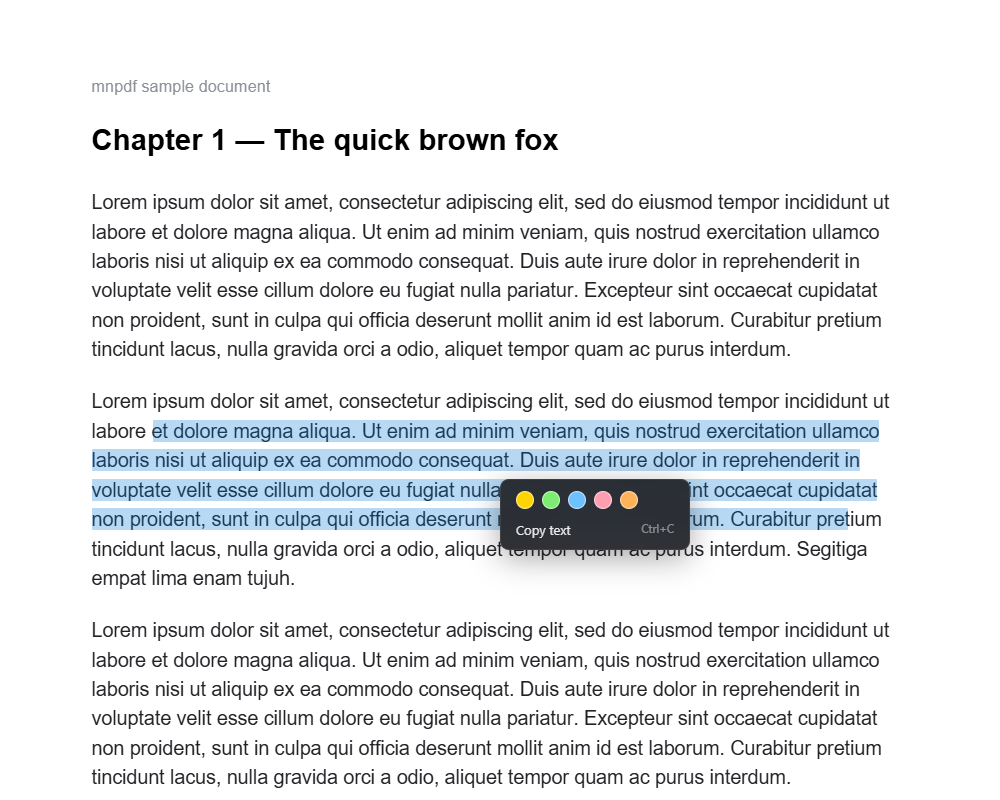
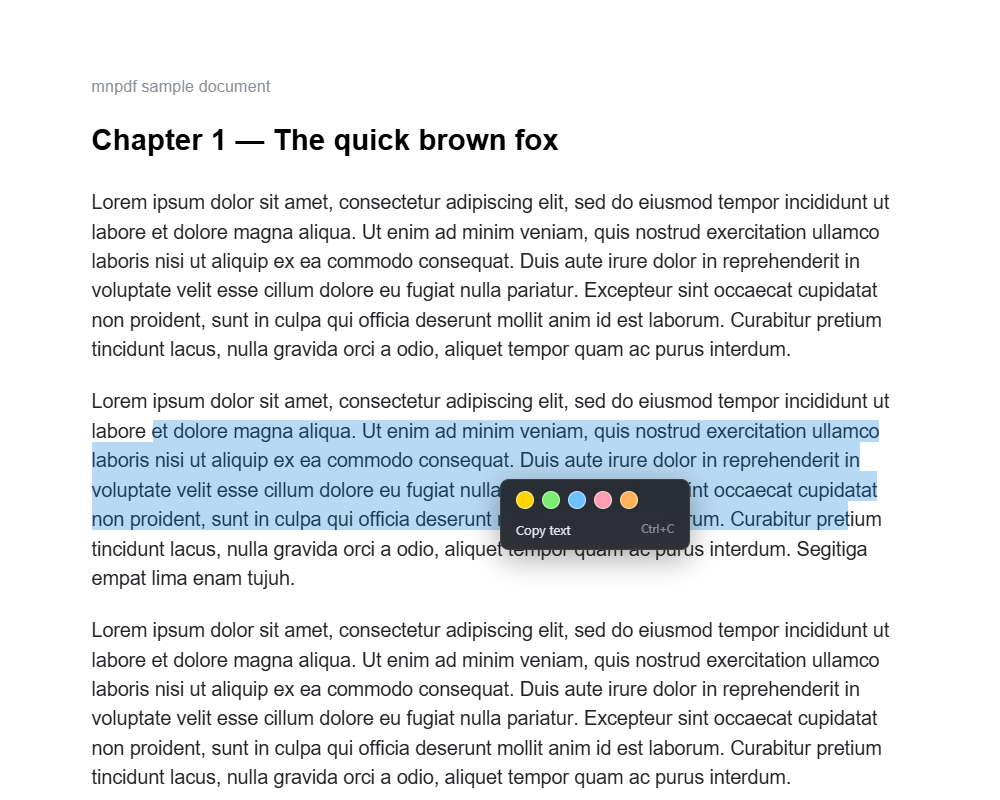
v1.2.1: direction-aware selection trims (upward drags no longer drift), fixed continuity bridge comparison

Changed region(s): [[0.093, 0.5312, 0.868, 0.6562]]

diff --git a/src/annos.js b/src/annos.js
@@ -178,13 +178,21 @@ function snapWord(vis, off) {
 // margins and page gaps stay unpainted.
 function buildSegments(lines, iA, offA, iF, offF) {
   const fi = Math.min(iA, iF), li = Math.max(iA, iF);
+  // which end of the selection the anchor/focus offsets belong to depends on
+  // the drag direction (upward drags reverse the anchor/focus roles)
+  const downward = iA <= iF;
   const segs = [];
   for (let i = fi; i <= li; i++) {
     const line = lines[i];
     const vis = line.vis;
     let sx = vis.left, sOff = vis.start, ex = vis.right, eOff = vis.end;
-    if (i === fi) { sx = xOfOffset(vis, offA); sOff = offA; }
-    if (i === li) { ex = xOfOffset(vis, offF); eOff = offF; }
+    if (i === fi) {
+      if (downward) { sx = xOfOffset(vis, offA); sOff = offA; }
+      else { ex = xOfOffset(vis, offF); eOff = offF; }
+    } else if (i === li) {
+      if (downward) { ex = xOfOffset(vis, offF); eOff = offF; }
+      else { sx = xOfOffset(vis, offA); sOff = offA; }
+    }
     if (ex - sx < 0.5) continue;
     segs.push({ line, sx: Math.min(sx, ex), ex: Math.max(sx, ex), sOff, eOff,
                 docTop: line.docTop, docBottom: line.docBottom });
@@ -193,7 +201,8 @@ function buildSegments(lines, iA, offA, iF, offF) {
     const prev = segs[i - 1], cur = segs[i];
     if (prev.line.wrapEl !== cur.line.wrapEl) continue;
     const gap = cur.docTop - prev.docBottom;
-    if (gap > 0 && gap < prev.lh * 1.5) cur.docTop = prev.docBottom;
+    const bridge = (prev.docBottom - prev.docTop) * 1.5;
+    if (gap > 0 && gap < bridge) cur.docTop = prev.docBottom;
   }
   return segs;
 }
